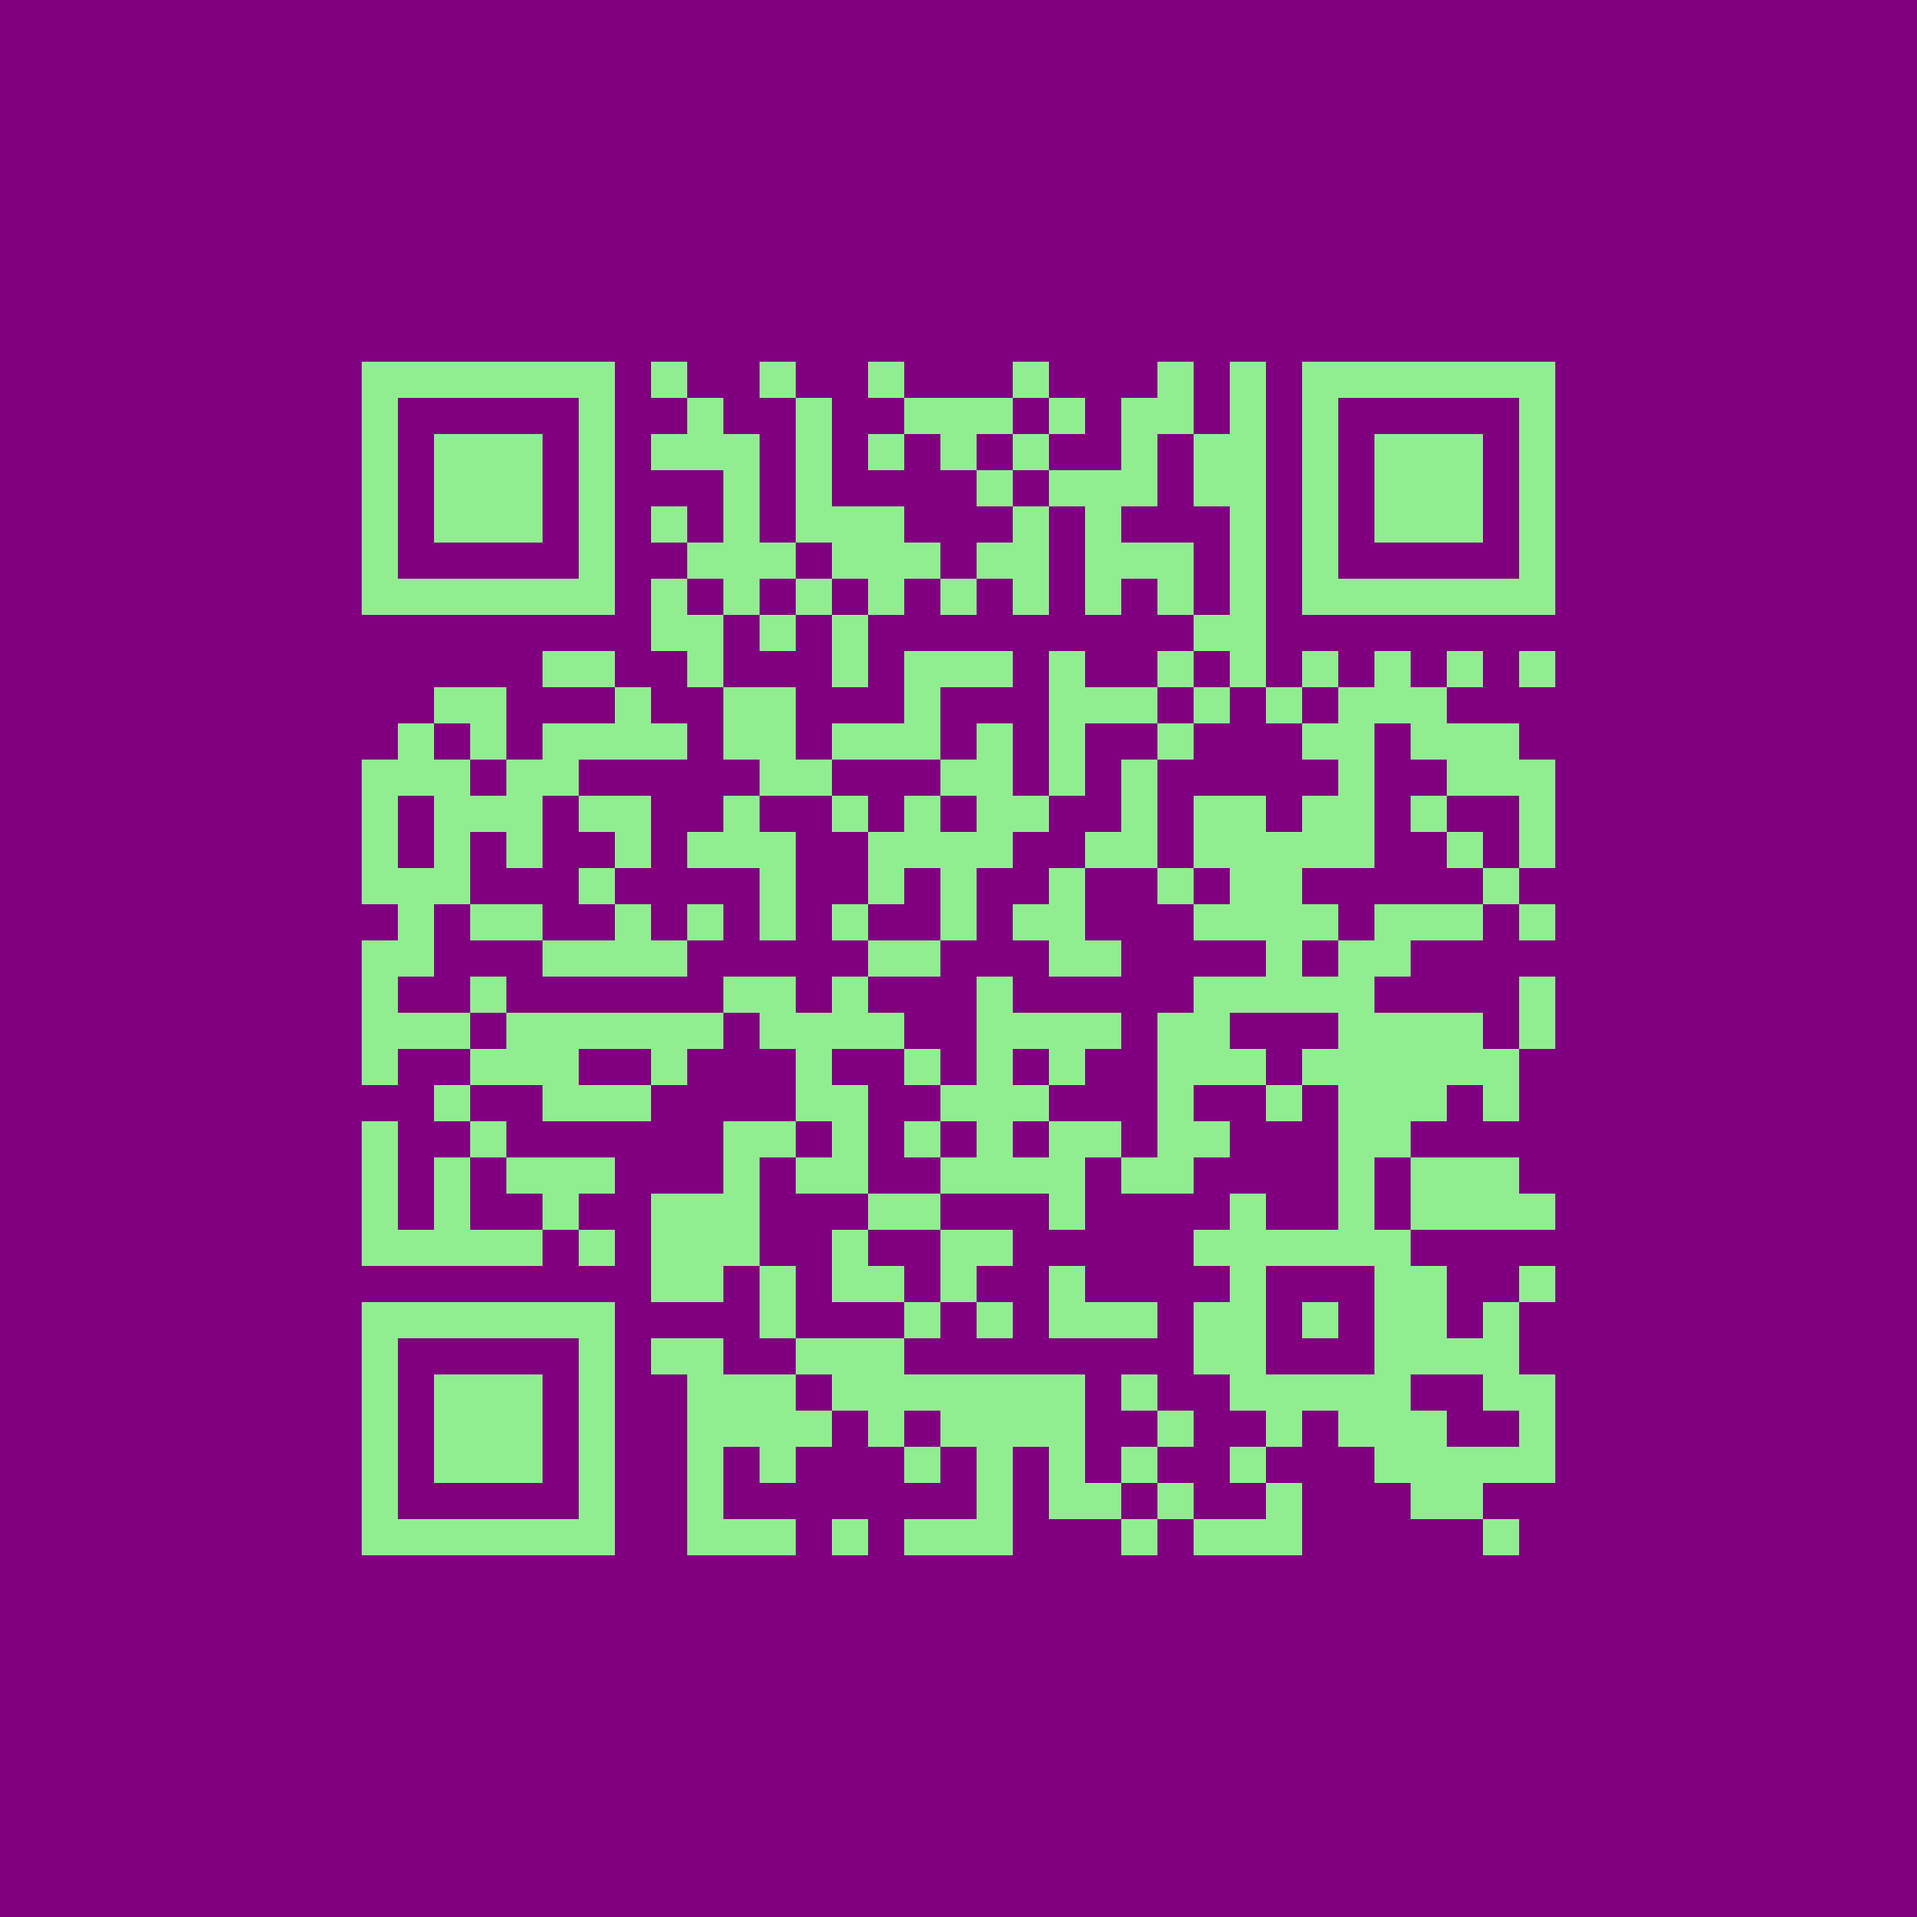
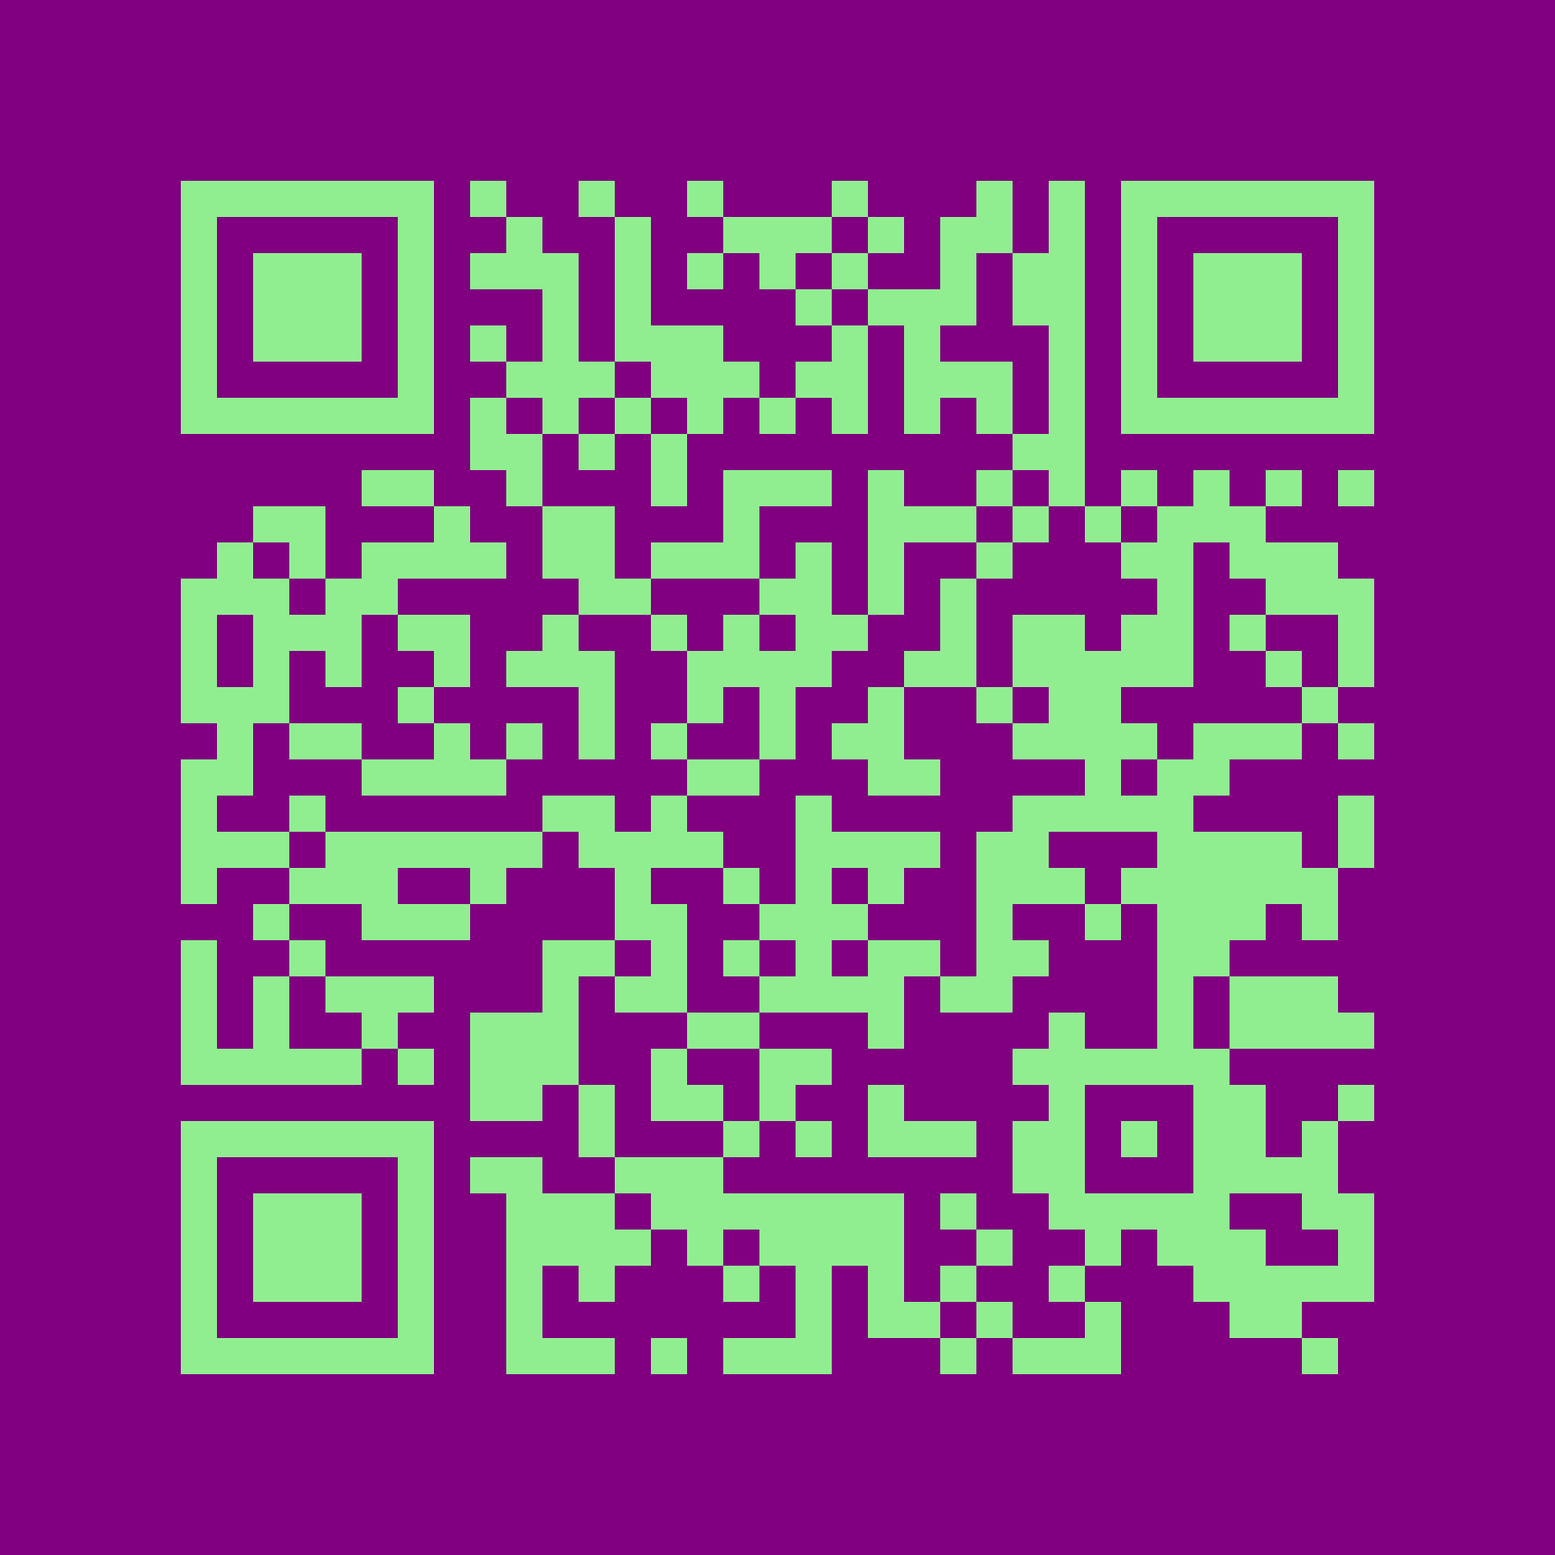
Little mod on size

Changed region(s): [[0.0924, 0.0924, 0.8936, 0.8936]]

diff --git a/Exercises_Projects/Exercise_18_qr_code.py b/Exercises_Projects/Exercise_18_qr_code.py
@@ -5,7 +5,7 @@ from PIL import Image
 # img = qrcode.make("https://github.com/leventeblanar")
 # img.save("levente_blanar_GH.png")
 
-qr = qrcode.QRCode(version=1, error_correction = qrcode.constants.ERROR_CORRECT_H, box_size= 40, border = 10 )
+qr = qrcode.QRCode(version=1, error_correction = qrcode.constants.ERROR_CORRECT_H, box_size= 40, border = 5 )
 qr.add_data("https://github.com/leventeblanar")
 qr.make(fit=True)
 img=qr.make_image(fill_color = "lightgreen", back_color="purple")
